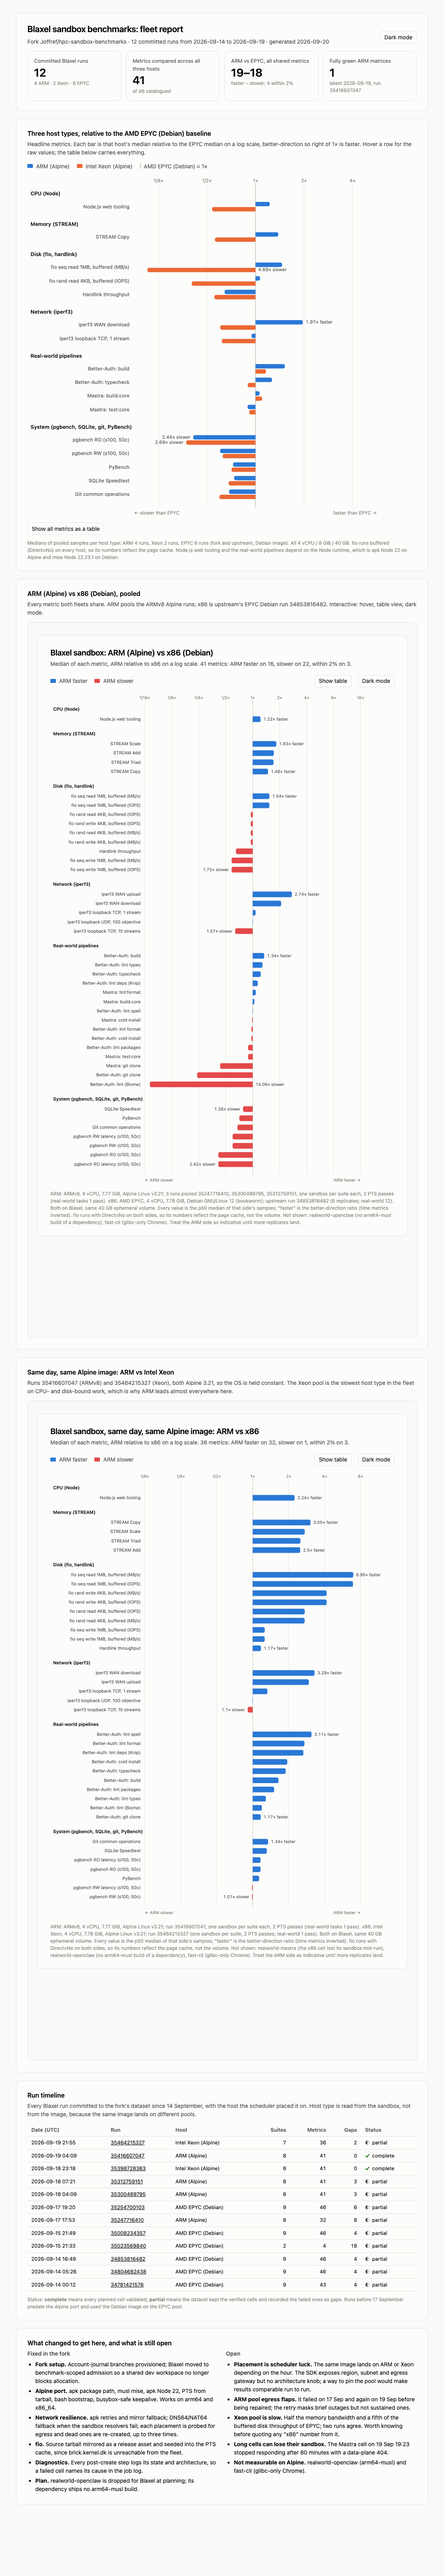
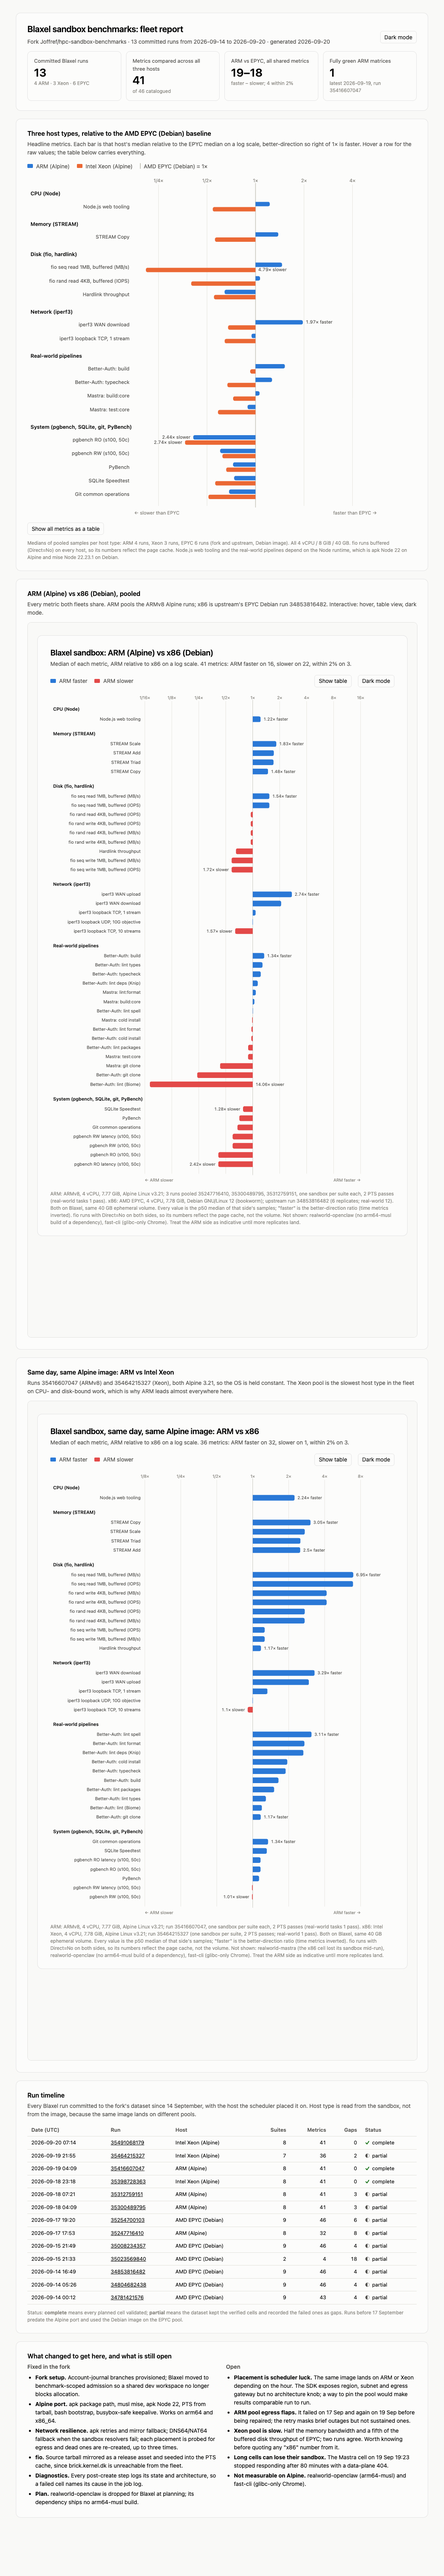
docs(report): include run 35491068179 (Xeon Alpine, complete)

diff --git a/docs/report.html b/docs/report.html
@@ -160,7 +160,7 @@
 </div>
 </div>
 
-<script id="data" type="application/json">{"generated":"2026-09-20","runs":[{"runId":"34781421576","at":"2026-09-14T00:12:55.940Z","sha":"08dfc6eb","host":"epyc-debian","hostLabel":"AMD EPYC (Debian)","cpu":"AMD EPYC","os":"Debian GNU/Linux 12 (bookworm)","metrics":43,"suites":9,"gaps":4,"failedGaps":4,"complete":false,"suitesCovered":["cpu-node","disk","memory","network","pgbench","realworld-better-auth","realworld-mastra","realworld-openclaw","system"]},{"runId":"34804682438","at":"2026-09-14T05:26:28.695Z","sha":"eea984ce","host":"epyc-debian","hostLabel":"AMD EPYC (Debian)","cpu":"AMD EPYC","os":"Debian GNU/Linux 12 (bookworm)","metrics":46,"suites":9,"gaps":4,"failedGaps":4,"complete":false,"suitesCovered":["cpu-node","disk","memory","network","pgbench","realworld-better-auth","realworld-mastra","realworld-openclaw","system"]},{"runId":"34853816482","at":"2026-09-14T16:49:58.613Z","sha":"845a0f19","host":"epyc-debian","hostLabel":"AMD EPYC (Debian)","cpu":"AMD EPYC","os":"Debian GNU/Linux 12 (bookworm)","metrics":46,"suites":9,"gaps":4,"failedGaps":4,"complete":false,"suitesCovered":["cpu-node","disk","memory","network","pgbench","realworld-better-auth","realworld-mastra","realworld-openclaw","system"]},{"runId":"35008234357","at":"2026-09-15T21:49:09.784Z","sha":"6e68d808","host":"epyc-debian","hostLabel":"AMD EPYC (Debian)","cpu":"AMD EPYC","os":"Debian GNU/Linux 12 (bookworm)","metrics":46,"suites":9,"gaps":4,"failedGaps":4,"complete":false,"suitesCovered":["cpu-node","disk","memory","network","pgbench","realworld-better-auth","realworld-mastra","realworld-openclaw","system"]},{"runId":"35023569840","at":"2026-09-15T21:33:08.891Z","sha":"deeee5a4","host":"epyc-debian","hostLabel":"AMD EPYC (Debian)","cpu":"AMD EPYC","os":"Debian GNU/Linux 12 (bookworm)","metrics":4,"suites":2,"gaps":18,"failedGaps":18,"complete":false,"suitesCovered":["cpu-node","system"]},{"runId":"35247716410","at":"2026-09-17T17:53:23.148Z","sha":"f6874780","host":"arm-alpine","hostLabel":"ARM (Alpine)","cpu":"ARMv8","os":"Alpine Linux v3.21","metrics":32,"suites":8,"gaps":8,"failedGaps":3,"complete":false,"suitesCovered":["cpu-node","disk","memory","network","pgbench","realworld-better-auth","realworld-mastra","system"]},{"runId":"35254700103","at":"2026-09-17T19:20:47.646Z","sha":"5c162190","host":"epyc-debian","hostLabel":"AMD EPYC (Debian)","cpu":"AMD EPYC","os":"Debian GNU/Linux 12 (bookworm)","metrics":46,"suites":9,"gaps":6,"failedGaps":5,"complete":false,"suitesCovered":["cpu-node","disk","memory","network","pgbench","realworld-better-auth","realworld-mastra","realworld-openclaw","system"]},{"runId":"35300489795","at":"2026-09-18T04:09:47.085Z","sha":"d29ca86a","host":"arm-alpine","hostLabel":"ARM (Alpine)","cpu":"ARMv8","os":"Alpine Linux v3.21","metrics":41,"suites":8,"gaps":3,"failedGaps":2,"complete":false,"suitesCovered":["cpu-node","disk","memory","network","pgbench","realworld-better-auth","realworld-mastra","system"]},{"runId":"35312759151","at":"2026-09-18T07:21:21.173Z","sha":"0a361c33","host":"arm-alpine","hostLabel":"ARM (Alpine)","cpu":"ARMv8","os":"Alpine Linux v3.21","metrics":41,"suites":8,"gaps":3,"failedGaps":2,"complete":false,"suitesCovered":["cpu-node","disk","memory","network","pgbench","realworld-better-auth","realworld-mastra","system"]},{"runId":"35398728363","at":"2026-09-18T23:18:55.289Z","sha":"fb826b66","host":"xeon-alpine","hostLabel":"Intel Xeon (Alpine)","cpu":"Intel Xeon","os":"Alpine Linux v3.21","metrics":41,"suites":8,"gaps":0,"failedGaps":0,"complete":true,"suitesCovered":["cpu-node","disk","memory","network","pgbench","realworld-better-auth","realworld-mastra","system"]},{"runId":"35416607047","at":"2026-09-19T04:09:22.065Z","sha":"83aeb5a4","host":"arm-alpine","hostLabel":"ARM (Alpine)","cpu":"ARMv8","os":"Alpine Linux v3.21","metrics":41,"suites":8,"gaps":0,"failedGaps":0,"complete":true,"suitesCovered":["cpu-node","disk","memory","network","pgbench","realworld-better-auth","realworld-mastra","system"]},{"runId":"35464215327","at":"2026-09-19T21:55:08.613Z","sha":"ee47d218","host":"xeon-alpine","hostLabel":"Intel Xeon (Alpine)","cpu":"Intel Xeon","os":"Alpine Linux v3.21","metrics":36,"suites":7,"gaps":2,"failedGaps":2,"complete":false,"suitesCovered":["cpu-node","disk","memory","network","pgbench","realworld-better-auth","system"]}],"metrics":[{"id":"node_web_tooling_runs_per_s","dimension":"cpu","label":"Node.js web tooling","unit":"runs/s","direction":"HIB","headline":true,"arm":24.685000000000002,"xeon":10.825,"epyc":20.13,"nArm":8,"nXeon":4,"nEpyc":32,"armVsEpyc":1.226279185295579,"xeonVsEpyc":0.5377545951316443,"armVsXeon":2.2803695150115475},{"id":"fio_type_random_read_engine_linux_aio_direct_no_block_size_4kb_job_count_1_disk_target_default_test_directory_iops","dimension":"disk","label":"fio rand read 4KB, buffered (IOPS)","unit":"IOPS","direction":"HIB","headline":false,"arm":57000,"xeon":21450,"epyc":53400,"nArm":6,"nXeon":4,"nEpyc":30,"armVsEpyc":1.0674157303370786,"xeonVsEpyc":0.40168539325842695,"armVsXeon":2.6573426573426575},{"id":"fio_type_random_read_engine_linux_aio_direct_no_block_size_4kb_job_count_1_disk_target_default_test_directory_mb_per_s","dimension":"disk","label":"fio rand read 4KB, buffered (MB/s)","unit":"MB/s","direction":"HIB","headline":false,"arm":233.30816,"xeon":88.0279552,"epyc":218.628096,"nArm":6,"nXeon":4,"nEpyc":30,"armVsEpyc":1.0671462829736211,"xeonVsEpyc":0.4026378896882494,"armVsXeon":2.6503871351995234},{"id":"fio_type_random_write_engine_linux_aio_direct_no_block_size_4kb_job_count_1_disk_target_default_test_directory_iops","dimension":"disk","label":"fio rand write 4KB, buffered (IOPS)","unit":"IOPS","direction":"HIB","headline":false,"arm":293000,"xeon":72850,"epyc":295000,"nArm":6,"nXeon":4,"nEpyc":30,"armVsEpyc":0.9932203389830508,"xeonVsEpyc":0.24694915254237287,"armVsXeon":4.021962937542896},{"id":"fio_type_random_write_engine_linux_aio_direct_no_block_size_4kb_job_count_1_disk_target_default_test_directory_mb_per_s","dimension":"disk","label":"fio rand write 4KB, buffered (MB/s)","unit":"MB/s","direction":"HIB","headline":true,"arm":1199.570944,"xeon":298.31987200000003,"epyc":1210.056704,"nArm":6,"nXeon":4,"nEpyc":30,"armVsEpyc":0.9913344887348353,"xeonVsEpyc":0.24653379549393414,"armVsXeon":4.021089630931458},{"id":"fio_type_sequential_read_engine_linux_aio_direct_no_block_size_1mb_job_count_1_disk_target_default_test_directory_iops","dimension":"disk","label":"fio seq read 1MB, buffered (IOPS)","unit":"IOPS","direction":"HIB","headline":false,"arm":11450,"xeon":1670.5,"epyc":7843.5,"nArm":6,"nXeon":4,"nEpyc":30,"armVsEpyc":1.4598074839038695,"xeonVsEpyc":0.21297889972588768,"armVsXeon":6.854235258904519},{"id":"fio_type_sequential_read_engine_linux_aio_direct_no_block_size_1mb_job_count_1_disk_target_default_test_directory_mb_per_s","dimension":"disk","label":"fio seq read 1MB, buffered (MB/s)","unit":"MB/s","direction":"HIB","headline":false,"arm":12025.9084288,"xeon":1753.74336,"epyc":8226.078720000001,"nArm":6,"nXeon":4,"nEpyc":30,"armVsEpyc":1.461924792861695,"xeonVsEpyc":0.2131931166347992,"armVsXeon":6.8572795216741405},{"id":"fio_type_sequential_write_engine_linux_aio_direct_no_block_size_1mb_job_count_1_disk_target_default_test_directory_iops","dimension":"disk","label":"fio seq write 1MB, buffered (IOPS)","unit":"IOPS","direction":"HIB","headline":false,"arm":2014,"xeon":1616,"epyc":3240,"nArm":6,"nXeon":4,"nEpyc":30,"armVsEpyc":0.6216049382716049,"xeonVsEpyc":0.49876543209876545,"armVsXeon":1.2462871287128714},{"id":"fio_type_sequential_write_engine_linux_aio_direct_no_block_size_1mb_job_count_1_disk_target_default_test_directory_mb_per_s","dimension":"disk","label":"fio seq write 1MB, buffered (MB/s)","unit":"MB/s","direction":"HIB","headline":false,"arm":2113.404928,"xeon":1696.07168,"epyc":3399.483392,"nArm":6,"nXeon":4,"nEpyc":30,"armVsEpyc":0.6216841455891424,"xeonVsEpyc":0.4989204194941394,"armVsXeon":1.2460587326120556},{"id":"hardlink_bogo_ops_per_s","dimension":"disk","label":"Hardlink throughput","unit":"bogo ops/s","direction":"HIB","headline":false,"arm":13.02,"xeon":11.254999999999999,"epyc":20.26,"nArm":6,"nXeon":4,"nEpyc":30,"armVsEpyc":0.6426456071076011,"xeonVsEpyc":0.5555281342546889,"armVsXeon":1.1568191914704575},{"id":"stream_type_add","dimension":"memory","label":"STREAM Add","unit":"MB/s","direction":"HIB","headline":false,"arm":140233.5,"xeon":64860.1,"epyc":97416,"nArm":8,"nXeon":4,"nEpyc":30,"armVsEpyc":1.4395325203252032,"xeonVsEpyc":0.6658054118419972,"armVsXeon":2.162091948671063},{"id":"stream_type_copy","dimension":"memory","label":"STREAM Copy","unit":"MB/s","direction":"HIB","headline":false,"arm":139966.34999999998,"xeon":56597.350000000006,"epyc":101059.7,"nArm":8,"nXeon":4,"nEpyc":30,"armVsEpyc":1.3849867949340833,"xeonVsEpyc":0.5600387691631779,"armVsXeon":2.47301949649586},{"id":"stream_type_scale","dimension":"memory","label":"STREAM Scale","unit":"MB/s","direction":"HIB","headline":false,"arm":138921.3,"xeon":63418.45,"epyc":90278.45,"nArm":8,"nXeon":4,"nEpyc":30,"armVsEpyc":1.5388090956368878,"xeonVsEpyc":0.7024760615628647,"armVsXeon":2.1905502263142664},{"id":"stream_type_triad","dimension":"memory","label":"STREAM Triad","unit":"MB/s","direction":"HIB","headline":true,"arm":140225.05,"xeon":64800.05,"epyc":97086,"nArm":8,"nXeon":4,"nEpyc":30,"armVsEpyc":1.4443385246070493,"xeonVsEpyc":0.6674499927898977,"armVsXeon":2.1639651512614573},{"id":"iperf_server_address_localhost_server_port_5201_duration_10_seconds_test_tcp_parallel_1","dimension":"network","label":"iperf3 loopback TCP, 1 stream","unit":"Mbits/sec","direction":"HIB","headline":false,"arm":93002.5,"xeon":60855.5,"epyc":98479.5,"nArm":8,"nXeon":4,"nEpyc":30,"armVsEpyc":0.9443843642585513,"xeonVsEpyc":0.6179509441051183,"armVsXeon":1.5282513495082615},{"id":"iperf_server_address_localhost_server_port_5201_duration_10_seconds_test_tcp_parallel_10","dimension":"network","label":"iperf3 loopback TCP, 10 streams","unit":"Mbits/sec","direction":"HIB","headline":false,"arm":66231.5,"xeon":79048,"epyc":99377.5,"nArm":8,"nXeon":4,"nEpyc":30,"armVsEpyc":0.6664637367613393,"xeonVsEpyc":0.7954315614701517,"armVsXeon":0.8378643355935634},{"id":"iperf_server_address_localhost_server_port_5201_duration_10_seconds_test_udp_10000mbit_objective_parallel_1","dimension":"network","label":"iperf3 loopback UDP, 10G objective","unit":"Mbits/sec","direction":"HIB","headline":false,"arm":9999,"xeon":9999,"epyc":9999,"nArm":8,"nXeon":4,"nEpyc":30,"armVsEpyc":1,"xeonVsEpyc":1,"armVsXeon":1},{"id":"iperf_wan_direction_download","dimension":"network","label":"iperf3 WAN download","unit":"Mbits/sec","direction":"HIB","headline":true,"arm":3779.38,"xeon":1160.25,"epyc":1920.71,"nArm":8,"nXeon":4,"nEpyc":30,"armVsEpyc":1.9676994444762614,"xeonVsEpyc":0.6040734936559918,"armVsXeon":3.257384184443008},{"id":"iperf_wan_direction_upload","dimension":"network","label":"iperf3 WAN upload","unit":"Mbits/sec","direction":"HIB","headline":true,"arm":6447.9400000000005,"xeon":2271.975,"epyc":2451.935,"nArm":8,"nXeon":4,"nEpyc":30,"armVsEpyc":2.629735290698979,"xeonVsEpyc":0.9266049059212418,"armVsXeon":2.8380329889193328},{"id":"realworld_better_auth_task_build","dimension":"realworld","label":"Better-Auth: build","unit":"Seconds","direction":"LIB","headline":false,"arm":56.751000000000005,"xeon":74.267,"epyc":86.3325,"nArm":4,"nXeon":2,"nEpyc":60,"armVsEpyc":1.5212507268594384,"xeonVsEpyc":1.1624611200129265,"armVsXeon":1.308646543673239},{"id":"realworld_better_auth_task_cold_install","dimension":"realworld","label":"Better-Auth: cold install","unit":"Seconds","direction":"LIB","headline":false,"arm":13.956,"xeon":20.828,"epyc":12.912500000000001,"nArm":4,"nXeon":2,"nEpyc":60,"armVsEpyc":0.9252292920607625,"xeonVsEpyc":0.6199587094296141,"armVsXeon":1.4924047004872456},{"id":"realworld_better_auth_task_git_clone","dimension":"realworld","label":"Better-Auth: git clone","unit":"Seconds","direction":"LIB","headline":false,"arm":3.2,"xeon":3.464,"epyc":0.7855000000000001,"nArm":4,"nXeon":2,"nEpyc":60,"armVsEpyc":0.24546875,"xeonVsEpyc":0.22676096997690534,"armVsXeon":1.0825},{"id":"realworld_better_auth_task_lint_biome","dimension":"realworld","label":"Better-Auth: lint (Biome)","unit":"Seconds","direction":"LIB","headline":false,"arm":51.411500000000004,"xeon":69.74000000000001,"epyc":3.7765,"nArm":4,"nXeon":2,"nEpyc":60,"armVsEpyc":0.07345632786438831,"xeonVsEpyc":0.054151132778893024,"armVsXeon":1.3565058401330443},{"id":"realworld_better_auth_task_lint_deps_knip","dimension":"realworld","label":"Better-Auth: lint deps (Knip)","unit":"Seconds","direction":"LIB","headline":false,"arm":9.8525,"xeon":18.095,"epyc":11.712499999999999,"nArm":4,"nXeon":2,"nEpyc":60,"armVsEpyc":1.1887845724435422,"xeonVsEpyc":0.6472782536612324,"armVsXeon":1.836589698046181},{"id":"realworld_better_auth_task_lint_format","dimension":"realworld","label":"Better-Auth: lint format","unit":"Seconds","direction":"LIB","headline":false,"arm":3.311,"xeon":6.0305,"epyc":3.373,"nArm":4,"nXeon":2,"nEpyc":60,"armVsEpyc":1.0187254605859257,"xeonVsEpyc":0.5593234391841473,"armVsXeon":1.8213530655391121},{"id":"realworld_better_auth_task_lint_packages","dimension":"realworld","label":"Better-Auth: lint packages","unit":"Seconds","direction":"LIB","headline":false,"arm":3.1174999999999997,"xeon":3.8515,"epyc":3.508,"nArm":4,"nXeon":2,"nEpyc":60,"armVsEpyc":1.125260625501203,"xeonVsEpyc":0.9108139685836687,"armVsXeon":1.2354450681635927},{"id":"realworld_better_auth_task_lint_spell","dimension":"realworld","label":"Better-Auth: lint spell","unit":"Seconds","direction":"LIB","headline":false,"arm":7.553,"xeon":15.116,"epyc":9.07,"nArm":4,"nXeon":2,"nEpyc":60,"armVsEpyc":1.2008473454256587,"xeonVsEpyc":0.6000264620269913,"armVsXeon":2.0013239772275915},{"id":"realworld_better_auth_task_lint_types","dimension":"realworld","label":"Better-Auth: lint types","unit":"Seconds","direction":"LIB","headline":false,"arm":28.644,"xeon":30.914,"epyc":45.277,"nArm":4,"nXeon":2,"nEpyc":60,"armVsEpyc":1.5806800726155565,"xeonVsEpyc":1.4646115028789546,"armVsXeon":1.0792487082809665},{"id":"realworld_better_auth_task_typecheck","dimension":"realworld","label":"Better-Auth: typecheck","unit":"Seconds","direction":"LIB","headline":false,"arm":41.086,"xeon":58.176500000000004,"epyc":52.066,"nArm":4,"nXeon":2,"nEpyc":60,"armVsEpyc":1.2672443167989098,"xeonVsEpyc":0.8949661805024365,"armVsXeon":1.4159689431923284},{"id":"realworld_mastra_task_build_core","dimension":"realworld","label":"Mastra: build:core","unit":"Seconds","direction":"LIB","headline":false,"arm":72.741,"xeon":70.147,"epyc":77.078,"nArm":4,"nXeon":1,"nEpyc":60,"armVsEpyc":1.059622496253832,"xeonVsEpyc":1.098806791452236,"armVsXeon":0.9643392309701545},{"id":"realworld_mastra_task_cold_install","dimension":"realworld","label":"Mastra: cold install","unit":"Seconds","direction":"LIB","headline":true,"arm":41.864000000000004,"xeon":46.407,"epyc":40.8985,"nArm":4,"nXeon":1,"nEpyc":60,"armVsEpyc":0.9769372253009745,"xeonVsEpyc":0.881300234878359,"armVsXeon":1.108518058475062},{"id":"realworld_mastra_task_git_clone","dimension":"realworld","label":"Mastra: git clone","unit":"Seconds","direction":"LIB","headline":false,"arm":6.04,"xeon":6.499,"epyc":2.207,"nArm":4,"nXeon":1,"nEpyc":60,"armVsEpyc":0.36539735099337745,"xeonVsEpyc":0.33959070626250193,"armVsXeon":1.0759933774834436},{"id":"realworld_mastra_task_lint_format","dimension":"realworld","label":"Mastra: lint:format","unit":"Seconds","direction":"LIB","headline":false,"arm":87.365,"xeon":87.956,"epyc":94.279,"nArm":4,"nXeon":1,"nEpyc":60,"armVsEpyc":1.0791392434041092,"xeonVsEpyc":1.0718882168356905,"armVsXeon":1.0067647227150462},{"id":"realworld_mastra_task_test_core","dimension":"realworld","label":"Mastra: test:core","unit":"Seconds","direction":"LIB","headline":false,"arm":1054.9945,"xeon":1028.681,"epyc":941.361,"nArm":4,"nXeon":1,"nEpyc":47,"armVsEpyc":0.8922899598054777,"xeonVsEpyc":0.915114598208774,"armVsXeon":0.9750581638103327},{"id":"realworld_openclaw_task_cold_install","dimension":"realworld","label":"OpenClaw: cold install","unit":"Seconds","direction":"LIB","headline":false,"epyc":13.888,"nArm":0,"nXeon":0,"nEpyc":60,"armVsEpyc":null,"xeonVsEpyc":null,"armVsXeon":null},{"id":"realworld_openclaw_task_git_clone","dimension":"realworld","label":"OpenClaw: git clone","unit":"Seconds","direction":"LIB","headline":false,"epyc":2.7525,"nArm":0,"nXeon":0,"nEpyc":60,"armVsEpyc":null,"xeonVsEpyc":null,"armVsXeon":null},{"id":"realworld_openclaw_task_lint_extensions_all","dimension":"realworld","label":"OpenClaw: lint (all extensions)","unit":"Seconds","direction":"LIB","headline":false,"epyc":158.547,"nArm":0,"nXeon":0,"nEpyc":48,"armVsEpyc":null,"xeonVsEpyc":null,"armVsXeon":null},{"id":"realworld_openclaw_task_lint_oxlint","dimension":"realworld","label":"OpenClaw: lint (Oxlint)","unit":"Seconds","direction":"LIB","headline":false,"epyc":303.87850000000003,"nArm":0,"nXeon":0,"nEpyc":48,"armVsEpyc":null,"xeonVsEpyc":null,"armVsXeon":null},{"id":"realworld_openclaw_task_typecheck","dimension":"realworld","label":"OpenClaw: typecheck (tsgo)","unit":"Seconds","direction":"LIB","headline":false,"epyc":18.243,"nArm":0,"nXeon":0,"nEpyc":49,"armVsEpyc":null,"xeonVsEpyc":null,"armVsXeon":null},{"id":"git_seconds","dimension":"system","label":"Git common operations","unit":"Seconds","direction":"LIB","headline":true,"arm":60.884,"xeon":69.8785,"epyc":41.718,"nArm":8,"nXeon":4,"nEpyc":30,"armVsEpyc":0.6852046514683662,"xeonVsEpyc":0.5970076633013016,"armVsXeon":1.147731752184482},{"id":"pgbench_scaling_factor_100_clients_50_mode_read_only","dimension":"system","label":"pgbench RO (s100, 50c)","unit":"TPS","direction":"HIB","headline":false,"arm":136454.05846149998,"xeon":123404.04296600001,"epyc":332287.363412,"nArm":8,"nXeon":4,"nEpyc":30,"armVsEpyc":0.4106507604152008,"xeonVsEpyc":0.37137747791207,"armVsXeon":1.105750307541346},{"id":"pgbench_scaling_factor_100_clients_50_mode_read_only_average_latency","dimension":"system","label":"pgbench RO latency (s100, 50c)","unit":"ms","direction":"LIB","headline":false,"arm":0.3665,"xeon":0.40549999999999997,"epyc":0.1505,"nArm":8,"nXeon":4,"nEpyc":30,"armVsEpyc":0.4106412005457026,"xeonVsEpyc":0.3711467324290999,"armVsXeon":1.106412005457026},{"id":"pgbench_scaling_factor_100_clients_50_mode_read_write","dimension":"system","label":"pgbench RW (s100, 50c)","unit":"TPS","direction":"HIB","headline":false,"arm":14916.298085999999,"xeon":15472.46254,"epyc":24723.429381,"nArm":8,"nXeon":4,"nEpyc":30,"armVsEpyc":0.6033264178740187,"xeonVsEpyc":0.6258218591588518,"armVsXeon":0.96405456128511},{"id":"pgbench_scaling_factor_100_clients_50_mode_read_write_average_latency","dimension":"system","label":"pgbench RW latency (s100, 50c)","unit":"ms","direction":"LIB","headline":false,"arm":3.3525,"xeon":3.2325,"epyc":2.0225,"nArm":8,"nXeon":4,"nEpyc":30,"armVsEpyc":0.6032811334824757,"xeonVsEpyc":0.625676720804331,"armVsXeon":0.9642058165548099},{"id":"pybench_milliseconds","dimension":"system","label":"PyBench","unit":"Milliseconds","direction":"LIB","headline":false,"arm":668.5,"xeon":683.5,"epyc":485,"nArm":8,"nXeon":4,"nEpyc":30,"armVsEpyc":0.7255048616305161,"xeonVsEpyc":0.709583028529627,"armVsXeon":1.0224382946896036},{"id":"sqlite_speedtest_seconds","dimension":"system","label":"SQLite Speedtest","unit":"Seconds","direction":"LIB","headline":false,"arm":51.5035,"xeon":55.712,"epyc":37.941,"nArm":8,"nXeon":4,"nEpyc":30,"armVsEpyc":0.7366683817604629,"xeonVsEpyc":0.6810202469844917,"armVsXeon":1.0817128932985136}],"headline":["node_web_tooling_runs_per_s","stream_type_copy","fio_type_sequential_read_engine_linux_aio_direct_no_block_size_1mb_job_count_1_disk_target_default_test_directory_mb_per_s","fio_type_random_read_engine_linux_aio_direct_no_block_size_4kb_job_count_1_disk_target_default_test_directory_iops","hardlink_bogo_ops_per_s","iperf_wan_direction_download","iperf_server_address_localhost_server_port_5201_duration_10_seconds_test_tcp_parallel_1","pgbench_scaling_factor_100_clients_50_mode_read_only","pgbench_scaling_factor_100_clients_50_mode_read_write","pybench_milliseconds","sqlite_speedtest_seconds","git_seconds","realworld_better_auth_task_build","realworld_better_auth_task_typecheck","realworld_mastra_task_build_core","realworld_mastra_task_test_core"]}</script>
+<script id="data" type="application/json">{"generated":"2026-09-20","runs":[{"runId":"34781421576","at":"2026-09-14T00:12:55.940Z","sha":"08dfc6eb","host":"epyc-debian","hostLabel":"AMD EPYC (Debian)","cpu":"AMD EPYC","os":"Debian GNU/Linux 12 (bookworm)","metrics":43,"suites":9,"gaps":4,"failedGaps":4,"complete":false,"suitesCovered":["cpu-node","disk","memory","network","pgbench","realworld-better-auth","realworld-mastra","realworld-openclaw","system"]},{"runId":"34804682438","at":"2026-09-14T05:26:28.695Z","sha":"eea984ce","host":"epyc-debian","hostLabel":"AMD EPYC (Debian)","cpu":"AMD EPYC","os":"Debian GNU/Linux 12 (bookworm)","metrics":46,"suites":9,"gaps":4,"failedGaps":4,"complete":false,"suitesCovered":["cpu-node","disk","memory","network","pgbench","realworld-better-auth","realworld-mastra","realworld-openclaw","system"]},{"runId":"34853816482","at":"2026-09-14T16:49:58.613Z","sha":"845a0f19","host":"epyc-debian","hostLabel":"AMD EPYC (Debian)","cpu":"AMD EPYC","os":"Debian GNU/Linux 12 (bookworm)","metrics":46,"suites":9,"gaps":4,"failedGaps":4,"complete":false,"suitesCovered":["cpu-node","disk","memory","network","pgbench","realworld-better-auth","realworld-mastra","realworld-openclaw","system"]},{"runId":"35008234357","at":"2026-09-15T21:49:09.784Z","sha":"6e68d808","host":"epyc-debian","hostLabel":"AMD EPYC (Debian)","cpu":"AMD EPYC","os":"Debian GNU/Linux 12 (bookworm)","metrics":46,"suites":9,"gaps":4,"failedGaps":4,"complete":false,"suitesCovered":["cpu-node","disk","memory","network","pgbench","realworld-better-auth","realworld-mastra","realworld-openclaw","system"]},{"runId":"35023569840","at":"2026-09-15T21:33:08.891Z","sha":"deeee5a4","host":"epyc-debian","hostLabel":"AMD EPYC (Debian)","cpu":"AMD EPYC","os":"Debian GNU/Linux 12 (bookworm)","metrics":4,"suites":2,"gaps":18,"failedGaps":18,"complete":false,"suitesCovered":["cpu-node","system"]},{"runId":"35247716410","at":"2026-09-17T17:53:23.148Z","sha":"f6874780","host":"arm-alpine","hostLabel":"ARM (Alpine)","cpu":"ARMv8","os":"Alpine Linux v3.21","metrics":32,"suites":8,"gaps":8,"failedGaps":3,"complete":false,"suitesCovered":["cpu-node","disk","memory","network","pgbench","realworld-better-auth","realworld-mastra","system"]},{"runId":"35254700103","at":"2026-09-17T19:20:47.646Z","sha":"5c162190","host":"epyc-debian","hostLabel":"AMD EPYC (Debian)","cpu":"AMD EPYC","os":"Debian GNU/Linux 12 (bookworm)","metrics":46,"suites":9,"gaps":6,"failedGaps":5,"complete":false,"suitesCovered":["cpu-node","disk","memory","network","pgbench","realworld-better-auth","realworld-mastra","realworld-openclaw","system"]},{"runId":"35300489795","at":"2026-09-18T04:09:47.085Z","sha":"d29ca86a","host":"arm-alpine","hostLabel":"ARM (Alpine)","cpu":"ARMv8","os":"Alpine Linux v3.21","metrics":41,"suites":8,"gaps":3,"failedGaps":2,"complete":false,"suitesCovered":["cpu-node","disk","memory","network","pgbench","realworld-better-auth","realworld-mastra","system"]},{"runId":"35312759151","at":"2026-09-18T07:21:21.173Z","sha":"0a361c33","host":"arm-alpine","hostLabel":"ARM (Alpine)","cpu":"ARMv8","os":"Alpine Linux v3.21","metrics":41,"suites":8,"gaps":3,"failedGaps":2,"complete":false,"suitesCovered":["cpu-node","disk","memory","network","pgbench","realworld-better-auth","realworld-mastra","system"]},{"runId":"35398728363","at":"2026-09-18T23:18:55.289Z","sha":"fb826b66","host":"xeon-alpine","hostLabel":"Intel Xeon (Alpine)","cpu":"Intel Xeon","os":"Alpine Linux v3.21","metrics":41,"suites":8,"gaps":0,"failedGaps":0,"complete":true,"suitesCovered":["cpu-node","disk","memory","network","pgbench","realworld-better-auth","realworld-mastra","system"]},{"runId":"35416607047","at":"2026-09-19T04:09:22.065Z","sha":"83aeb5a4","host":"arm-alpine","hostLabel":"ARM (Alpine)","cpu":"ARMv8","os":"Alpine Linux v3.21","metrics":41,"suites":8,"gaps":0,"failedGaps":0,"complete":true,"suitesCovered":["cpu-node","disk","memory","network","pgbench","realworld-better-auth","realworld-mastra","system"]},{"runId":"35464215327","at":"2026-09-19T21:55:08.613Z","sha":"ee47d218","host":"xeon-alpine","hostLabel":"Intel Xeon (Alpine)","cpu":"Intel Xeon","os":"Alpine Linux v3.21","metrics":36,"suites":7,"gaps":2,"failedGaps":2,"complete":false,"suitesCovered":["cpu-node","disk","memory","network","pgbench","realworld-better-auth","system"]},{"runId":"35491068179","at":"2026-09-20T07:14:32.555Z","sha":"b4e5467e","host":"xeon-alpine","hostLabel":"Intel Xeon (Alpine)","cpu":"Intel Xeon","os":"Alpine Linux v3.21","metrics":41,"suites":8,"gaps":0,"failedGaps":0,"complete":true,"suitesCovered":["cpu-node","disk","memory","network","pgbench","realworld-better-auth","realworld-mastra","system"]}],"metrics":[{"id":"node_web_tooling_runs_per_s","dimension":"cpu","label":"Node.js web tooling","unit":"runs/s","direction":"HIB","headline":true,"arm":24.685000000000002,"xeon":10.925,"epyc":20.13,"nArm":8,"nXeon":6,"nEpyc":32,"armVsEpyc":1.226279185295579,"xeonVsEpyc":0.542722305017387,"armVsXeon":2.259496567505721},{"id":"fio_type_random_read_engine_linux_aio_direct_no_block_size_4kb_job_count_1_disk_target_default_test_directory_iops","dimension":"disk","label":"fio rand read 4KB, buffered (IOPS)","unit":"IOPS","direction":"HIB","headline":false,"arm":57000,"xeon":21300,"epyc":53400,"nArm":6,"nXeon":6,"nEpyc":30,"armVsEpyc":1.0674157303370786,"xeonVsEpyc":0.398876404494382,"armVsXeon":2.676056338028169},{"id":"fio_type_random_read_engine_linux_aio_direct_no_block_size_4kb_job_count_1_disk_target_default_test_directory_mb_per_s","dimension":"disk","label":"fio rand read 4KB, buffered (MB/s)","unit":"MB/s","direction":"HIB","headline":false,"arm":233.30816,"xeon":87.39880959999999,"epyc":218.628096,"nArm":6,"nXeon":6,"nEpyc":30,"armVsEpyc":1.0671462829736211,"xeonVsEpyc":0.3997601918465227,"armVsXeon":2.6694661067786445},{"id":"fio_type_random_write_engine_linux_aio_direct_no_block_size_4kb_job_count_1_disk_target_default_test_directory_iops","dimension":"disk","label":"fio rand write 4KB, buffered (IOPS)","unit":"IOPS","direction":"HIB","headline":false,"arm":293000,"xeon":72850,"epyc":295000,"nArm":6,"nXeon":6,"nEpyc":30,"armVsEpyc":0.9932203389830508,"xeonVsEpyc":0.24694915254237287,"armVsXeon":4.021962937542896},{"id":"fio_type_random_write_engine_linux_aio_direct_no_block_size_4kb_job_count_1_disk_target_default_test_directory_mb_per_s","dimension":"disk","label":"fio rand write 4KB, buffered (MB/s)","unit":"MB/s","direction":"HIB","headline":true,"arm":1199.570944,"xeon":298.31987200000003,"epyc":1210.056704,"nArm":6,"nXeon":6,"nEpyc":30,"armVsEpyc":0.9913344887348353,"xeonVsEpyc":0.24653379549393414,"armVsXeon":4.021089630931458},{"id":"fio_type_sequential_read_engine_linux_aio_direct_no_block_size_1mb_job_count_1_disk_target_default_test_directory_iops","dimension":"disk","label":"fio seq read 1MB, buffered (IOPS)","unit":"IOPS","direction":"HIB","headline":false,"arm":11450,"xeon":1636.5,"epyc":7843.5,"nArm":6,"nXeon":6,"nEpyc":30,"armVsEpyc":1.4598074839038695,"xeonVsEpyc":0.20864410021036528,"armVsXeon":6.996639168958143},{"id":"fio_type_sequential_read_engine_linux_aio_direct_no_block_size_1mb_job_count_1_disk_target_default_test_directory_mb_per_s","dimension":"disk","label":"fio seq read 1MB, buffered (MB/s)","unit":"MB/s","direction":"HIB","headline":false,"arm":12025.9084288,"xeon":1717.5674880000001,"epyc":8226.078720000001,"nArm":6,"nXeon":6,"nEpyc":30,"armVsEpyc":1.461924792861695,"xeonVsEpyc":0.20879541108986613,"armVsXeon":7.001709401709401},{"id":"fio_type_sequential_write_engine_linux_aio_direct_no_block_size_1mb_job_count_1_disk_target_default_test_directory_iops","dimension":"disk","label":"fio seq write 1MB, buffered (IOPS)","unit":"IOPS","direction":"HIB","headline":false,"arm":2014,"xeon":1606.5,"epyc":3240,"nArm":6,"nXeon":6,"nEpyc":30,"armVsEpyc":0.6216049382716049,"xeonVsEpyc":0.49583333333333335,"armVsXeon":1.2536570183629008},{"id":"fio_type_sequential_write_engine_linux_aio_direct_no_block_size_1mb_job_count_1_disk_target_default_test_directory_mb_per_s","dimension":"disk","label":"fio seq write 1MB, buffered (MB/s)","unit":"MB/s","direction":"HIB","headline":false,"arm":2113.404928,"xeon":1686.110208,"epyc":3399.483392,"nArm":6,"nXeon":6,"nEpyc":30,"armVsEpyc":0.6216841455891424,"xeonVsEpyc":0.4959901295496607,"armVsXeon":1.25342039800995},{"id":"hardlink_bogo_ops_per_s","dimension":"disk","label":"Hardlink throughput","unit":"bogo ops/s","direction":"HIB","headline":false,"arm":13.02,"xeon":11.184999999999999,"epyc":20.26,"nArm":6,"nXeon":6,"nEpyc":30,"armVsEpyc":0.6426456071076011,"xeonVsEpyc":0.5520730503455082,"armVsXeon":1.1640590075994637},{"id":"stream_type_add","dimension":"memory","label":"STREAM Add","unit":"MB/s","direction":"HIB","headline":false,"arm":140233.5,"xeon":64860.1,"epyc":97416,"nArm":8,"nXeon":6,"nEpyc":30,"armVsEpyc":1.4395325203252032,"xeonVsEpyc":0.6658054118419972,"armVsXeon":2.162091948671063},{"id":"stream_type_copy","dimension":"memory","label":"STREAM Copy","unit":"MB/s","direction":"HIB","headline":false,"arm":139966.34999999998,"xeon":56597.350000000006,"epyc":101059.7,"nArm":8,"nXeon":6,"nEpyc":30,"armVsEpyc":1.3849867949340833,"xeonVsEpyc":0.5600387691631779,"armVsXeon":2.47301949649586},{"id":"stream_type_scale","dimension":"memory","label":"STREAM Scale","unit":"MB/s","direction":"HIB","headline":false,"arm":138921.3,"xeon":63418.45,"epyc":90278.45,"nArm":8,"nXeon":6,"nEpyc":30,"armVsEpyc":1.5388090956368878,"xeonVsEpyc":0.7024760615628647,"armVsXeon":2.1905502263142664},{"id":"stream_type_triad","dimension":"memory","label":"STREAM Triad","unit":"MB/s","direction":"HIB","headline":true,"arm":140225.05,"xeon":64800.05,"epyc":97086,"nArm":8,"nXeon":6,"nEpyc":30,"armVsEpyc":1.4443385246070493,"xeonVsEpyc":0.6674499927898977,"armVsXeon":2.1639651512614573},{"id":"iperf_server_address_localhost_server_port_5201_duration_10_seconds_test_tcp_parallel_1","dimension":"network","label":"iperf3 loopback TCP, 1 stream","unit":"Mbits/sec","direction":"HIB","headline":false,"arm":93002.5,"xeon":63346.5,"epyc":98479.5,"nArm":8,"nXeon":6,"nEpyc":30,"armVsEpyc":0.9443843642585513,"xeonVsEpyc":0.6432455485659452,"armVsXeon":1.4681553045551057},{"id":"iperf_server_address_localhost_server_port_5201_duration_10_seconds_test_tcp_parallel_10","dimension":"network","label":"iperf3 loopback TCP, 10 streams","unit":"Mbits/sec","direction":"HIB","headline":false,"arm":66231.5,"xeon":79222,"epyc":99377.5,"nArm":8,"nXeon":6,"nEpyc":30,"armVsEpyc":0.6664637367613393,"xeonVsEpyc":0.7971824608185958,"armVsXeon":0.8360240842190301},{"id":"iperf_server_address_localhost_server_port_5201_duration_10_seconds_test_udp_10000mbit_objective_parallel_1","dimension":"network","label":"iperf3 loopback UDP, 10G objective","unit":"Mbits/sec","direction":"HIB","headline":false,"arm":9999,"xeon":9999,"epyc":9999,"nArm":8,"nXeon":6,"nEpyc":30,"armVsEpyc":1,"xeonVsEpyc":1,"armVsXeon":1},{"id":"iperf_wan_direction_download","dimension":"network","label":"iperf3 WAN download","unit":"Mbits/sec","direction":"HIB","headline":true,"arm":3779.38,"xeon":1297.53,"epyc":1920.71,"nArm":8,"nXeon":6,"nEpyc":30,"armVsEpyc":1.9676994444762614,"xeonVsEpyc":0.675547063325541,"armVsXeon":2.912749608872242},{"id":"iperf_wan_direction_upload","dimension":"network","label":"iperf3 WAN upload","unit":"Mbits/sec","direction":"HIB","headline":true,"arm":6447.9400000000005,"xeon":2335.02,"epyc":2451.935,"nArm":8,"nXeon":6,"nEpyc":30,"armVsEpyc":2.629735290698979,"xeonVsEpyc":0.9523172514768948,"armVsXeon":2.761406754546},{"id":"realworld_better_auth_task_build","dimension":"realworld","label":"Better-Auth: build","unit":"Seconds","direction":"LIB","headline":false,"arm":56.751000000000005,"xeon":93.136,"epyc":86.3325,"nArm":4,"nXeon":3,"nEpyc":60,"armVsEpyc":1.5212507268594384,"xeonVsEpyc":0.9269509104964783,"armVsXeon":1.6411340769325649},{"id":"realworld_better_auth_task_cold_install","dimension":"realworld","label":"Better-Auth: cold install","unit":"Seconds","direction":"LIB","headline":false,"arm":13.956,"xeon":27.567,"epyc":12.912500000000001,"nArm":4,"nXeon":3,"nEpyc":60,"armVsEpyc":0.9252292920607625,"xeonVsEpyc":0.46840425146007914,"armVsXeon":1.9752794496990542},{"id":"realworld_better_auth_task_git_clone","dimension":"realworld","label":"Better-Auth: git clone","unit":"Seconds","direction":"LIB","headline":false,"arm":3.2,"xeon":3.717,"epyc":0.7855000000000001,"nArm":4,"nXeon":3,"nEpyc":60,"armVsEpyc":0.24546875,"xeonVsEpyc":0.21132633844498253,"armVsXeon":1.1615625},{"id":"realworld_better_auth_task_lint_biome","dimension":"realworld","label":"Better-Auth: lint (Biome)","unit":"Seconds","direction":"LIB","headline":false,"arm":51.411500000000004,"xeon":65.498,"epyc":3.7765,"nArm":4,"nXeon":3,"nEpyc":60,"armVsEpyc":0.07345632786438831,"xeonVsEpyc":0.05765824910684295,"armVsXeon":1.2739951178238331},{"id":"realworld_better_auth_task_lint_deps_knip","dimension":"realworld","label":"Better-Auth: lint deps (Knip)","unit":"Seconds","direction":"LIB","headline":false,"arm":9.8525,"xeon":24.714,"epyc":11.712499999999999,"nArm":4,"nXeon":3,"nEpyc":60,"armVsEpyc":1.1887845724435422,"xeonVsEpyc":0.47392166383426393,"armVsXeon":2.5083988835320987},{"id":"realworld_better_auth_task_lint_format","dimension":"realworld","label":"Better-Auth: lint format","unit":"Seconds","direction":"LIB","headline":false,"arm":3.311,"xeon":7.604,"epyc":3.373,"nArm":4,"nXeon":3,"nEpyc":60,"armVsEpyc":1.0187254605859257,"xeonVsEpyc":0.44358232509205686,"armVsXeon":2.2965871337964363},{"id":"realworld_better_auth_task_lint_packages","dimension":"realworld","label":"Better-Auth: lint packages","unit":"Seconds","direction":"LIB","headline":false,"arm":3.1174999999999997,"xeon":4.722,"epyc":3.508,"nArm":4,"nXeon":3,"nEpyc":60,"armVsEpyc":1.125260625501203,"xeonVsEpyc":0.7429055484963998,"armVsXeon":1.5146752205292706},{"id":"realworld_better_auth_task_lint_spell","dimension":"realworld","label":"Better-Auth: lint spell","unit":"Seconds","direction":"LIB","headline":false,"arm":7.553,"xeon":21.848,"epyc":9.07,"nArm":4,"nXeon":3,"nEpyc":60,"armVsEpyc":1.2008473454256587,"xeonVsEpyc":0.415140974002197,"armVsXeon":2.892625446842314},{"id":"realworld_better_auth_task_lint_types","dimension":"realworld","label":"Better-Auth: lint types","unit":"Seconds","direction":"LIB","headline":false,"arm":28.644,"xeon":36.903,"epyc":45.277,"nArm":4,"nXeon":3,"nEpyc":60,"armVsEpyc":1.5806800726155565,"xeonVsEpyc":1.226919220659567,"armVsXeon":1.2883326351068287},{"id":"realworld_better_auth_task_typecheck","dimension":"realworld","label":"Better-Auth: typecheck","unit":"Seconds","direction":"LIB","headline":false,"arm":41.086,"xeon":77.845,"epyc":52.066,"nArm":4,"nXeon":3,"nEpyc":60,"armVsEpyc":1.2672443167989098,"xeonVsEpyc":0.6688419294752393,"armVsXeon":1.8946843206931803},{"id":"realworld_mastra_task_build_core","dimension":"realworld","label":"Mastra: build:core","unit":"Seconds","direction":"LIB","headline":false,"arm":72.741,"xeon":106.12899999999999,"epyc":77.078,"nArm":4,"nXeon":2,"nEpyc":60,"armVsEpyc":1.059622496253832,"xeonVsEpyc":0.7262670900507874,"armVsXeon":1.4589983640587838},{"id":"realworld_mastra_task_cold_install","dimension":"realworld","label":"Mastra: cold install","unit":"Seconds","direction":"LIB","headline":true,"arm":41.864000000000004,"xeon":55.174499999999995,"epyc":40.8985,"nArm":4,"nXeon":2,"nEpyc":60,"armVsEpyc":0.9769372253009745,"xeonVsEpyc":0.7412572837089598,"armVsXeon":1.3179462067647618},{"id":"realworld_mastra_task_git_clone","dimension":"realworld","label":"Mastra: git clone","unit":"Seconds","direction":"LIB","headline":false,"arm":6.04,"xeon":6.819,"epyc":2.207,"nArm":4,"nXeon":2,"nEpyc":60,"armVsEpyc":0.36539735099337745,"xeonVsEpyc":0.323654494793958,"armVsXeon":1.1289735099337748},{"id":"realworld_mastra_task_lint_format","dimension":"realworld","label":"Mastra: lint:format","unit":"Seconds","direction":"LIB","headline":false,"arm":87.365,"xeon":134.99,"epyc":94.279,"nArm":4,"nXeon":2,"nEpyc":60,"armVsEpyc":1.0791392434041092,"xeonVsEpyc":0.6984146973849914,"armVsXeon":1.5451267670119615},{"id":"realworld_mastra_task_test_core","dimension":"realworld","label":"Mastra: test:core","unit":"Seconds","direction":"LIB","headline":false,"arm":1054.9945,"xeon":1609.4855,"epyc":941.361,"nArm":4,"nXeon":2,"nEpyc":47,"armVsEpyc":0.8922899598054777,"xeonVsEpyc":0.5848831816130061,"armVsXeon":1.52558662628099},{"id":"realworld_openclaw_task_cold_install","dimension":"realworld","label":"OpenClaw: cold install","unit":"Seconds","direction":"LIB","headline":false,"epyc":13.888,"nArm":0,"nXeon":0,"nEpyc":60,"armVsEpyc":null,"xeonVsEpyc":null,"armVsXeon":null},{"id":"realworld_openclaw_task_git_clone","dimension":"realworld","label":"OpenClaw: git clone","unit":"Seconds","direction":"LIB","headline":false,"epyc":2.7525,"nArm":0,"nXeon":0,"nEpyc":60,"armVsEpyc":null,"xeonVsEpyc":null,"armVsXeon":null},{"id":"realworld_openclaw_task_lint_extensions_all","dimension":"realworld","label":"OpenClaw: lint (all extensions)","unit":"Seconds","direction":"LIB","headline":false,"epyc":158.547,"nArm":0,"nXeon":0,"nEpyc":48,"armVsEpyc":null,"xeonVsEpyc":null,"armVsXeon":null},{"id":"realworld_openclaw_task_lint_oxlint","dimension":"realworld","label":"OpenClaw: lint (Oxlint)","unit":"Seconds","direction":"LIB","headline":false,"epyc":303.87850000000003,"nArm":0,"nXeon":0,"nEpyc":48,"armVsEpyc":null,"xeonVsEpyc":null,"armVsXeon":null},{"id":"realworld_openclaw_task_typecheck","dimension":"realworld","label":"OpenClaw: typecheck (tsgo)","unit":"Seconds","direction":"LIB","headline":false,"epyc":18.243,"nArm":0,"nXeon":0,"nEpyc":49,"armVsEpyc":null,"xeonVsEpyc":null,"armVsXeon":null},{"id":"git_seconds","dimension":"system","label":"Git common operations","unit":"Seconds","direction":"LIB","headline":true,"arm":60.884,"xeon":81.7935,"epyc":41.718,"nArm":8,"nXeon":6,"nEpyc":30,"armVsEpyc":0.6852046514683662,"xeonVsEpyc":0.5100405288928828,"armVsXeon":1.3434317718940936},{"id":"pgbench_scaling_factor_100_clients_50_mode_read_only","dimension":"system","label":"pgbench RO (s100, 50c)","unit":"TPS","direction":"HIB","headline":false,"arm":136454.05846149998,"xeon":121328.889916,"epyc":332287.363412,"nArm":8,"nXeon":6,"nEpyc":30,"armVsEpyc":0.4106507604152008,"xeonVsEpyc":0.36513242234121746,"armVsXeon":1.1246625478562577},{"id":"pgbench_scaling_factor_100_clients_50_mode_read_only_average_latency","dimension":"system","label":"pgbench RO latency (s100, 50c)","unit":"ms","direction":"LIB","headline":false,"arm":0.3665,"xeon":0.4125,"epyc":0.1505,"nArm":8,"nXeon":6,"nEpyc":30,"armVsEpyc":0.4106412005457026,"xeonVsEpyc":0.36484848484848487,"armVsXeon":1.125511596180082},{"id":"pgbench_scaling_factor_100_clients_50_mode_read_write","dimension":"system","label":"pgbench RW (s100, 50c)","unit":"TPS","direction":"HIB","headline":false,"arm":14916.298085999999,"xeon":15403.8294575,"epyc":24723.429381,"nArm":8,"nXeon":6,"nEpyc":30,"armVsEpyc":0.6033264178740187,"xeonVsEpyc":0.623045825080313,"armVsXeon":0.9683499890176578},{"id":"pgbench_scaling_factor_100_clients_50_mode_read_write_average_latency","dimension":"system","label":"pgbench RW latency (s100, 50c)","unit":"ms","direction":"LIB","headline":false,"arm":3.3525,"xeon":3.2465,"epyc":2.0225,"nArm":8,"nXeon":6,"nEpyc":30,"armVsEpyc":0.6032811334824757,"xeonVsEpyc":0.6229785923302017,"armVsXeon":0.9683818046234154},{"id":"pybench_milliseconds","dimension":"system","label":"PyBench","unit":"Milliseconds","direction":"LIB","headline":false,"arm":668.5,"xeon":737.5,"epyc":485,"nArm":8,"nXeon":6,"nEpyc":30,"armVsEpyc":0.7255048616305161,"xeonVsEpyc":0.6576271186440678,"armVsXeon":1.1032161555721764},{"id":"sqlite_speedtest_seconds","dimension":"system","label":"SQLite Speedtest","unit":"Seconds","direction":"LIB","headline":false,"arm":51.5035,"xeon":67.4825,"epyc":37.941,"nArm":8,"nXeon":6,"nEpyc":30,"armVsEpyc":0.7366683817604629,"xeonVsEpyc":0.5622346534286667,"armVsXeon":1.3102507596571107}],"headline":["node_web_tooling_runs_per_s","stream_type_copy","fio_type_sequential_read_engine_linux_aio_direct_no_block_size_1mb_job_count_1_disk_target_default_test_directory_mb_per_s","fio_type_random_read_engine_linux_aio_direct_no_block_size_4kb_job_count_1_disk_target_default_test_directory_iops","hardlink_bogo_ops_per_s","iperf_wan_direction_download","iperf_server_address_localhost_server_port_5201_duration_10_seconds_test_tcp_parallel_1","pgbench_scaling_factor_100_clients_50_mode_read_only","pgbench_scaling_factor_100_clients_50_mode_read_write","pybench_milliseconds","sqlite_speedtest_seconds","git_seconds","realworld_better_auth_task_build","realworld_better_auth_task_typecheck","realworld_mastra_task_build_core","realworld_mastra_task_test_core"]}</script>
 <script>
 (() => {
   const DATA = JSON.parse(document.getElementById("data").textContent);
